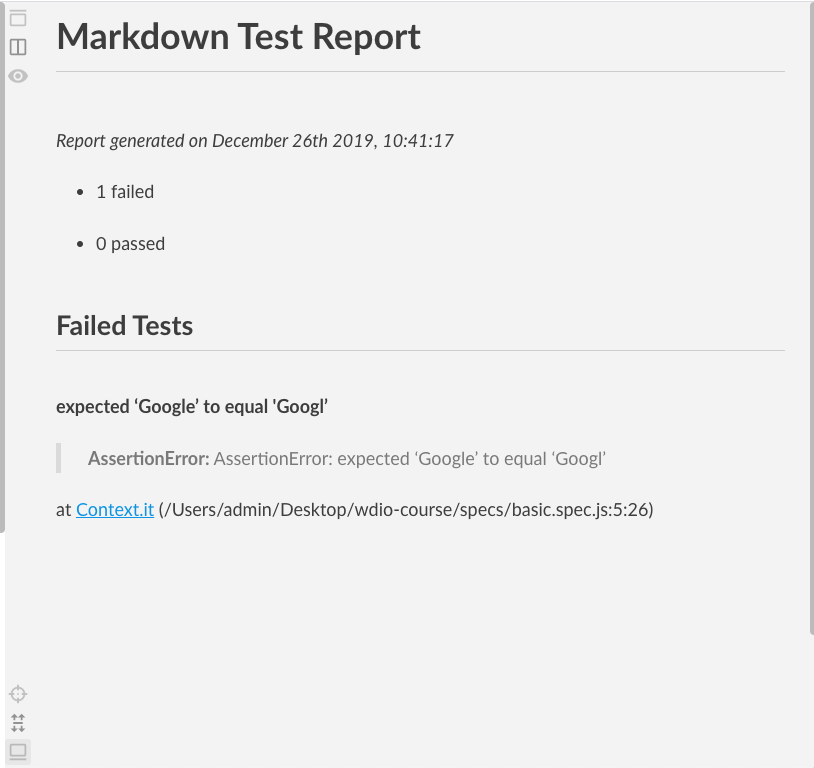
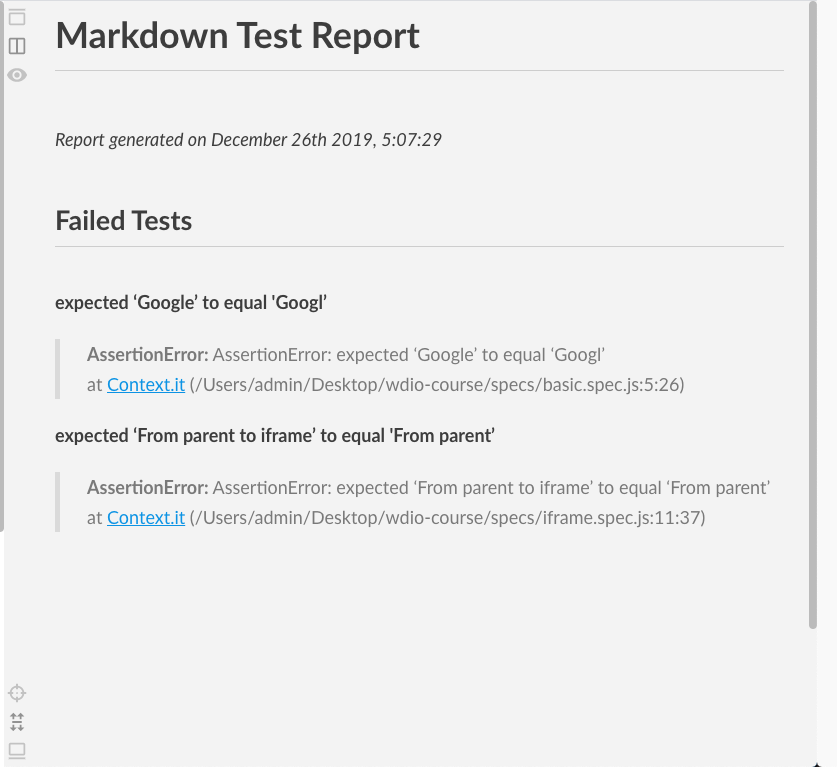
fix markdown reporter

diff --git a/src/index.js b/src/index.js
@@ -16,9 +16,9 @@ class MarkdownReporter extends WDIOReporter {
             failed: 0,
             passed: 0
         };
-
-        this.output = [];
+        this.createHeaderReport();
     }
+
     onTestPass() {
         this.stateCounts.passed++;
     }
@@ -40,59 +40,56 @@ class MarkdownReporter extends WDIOReporter {
     onRunnerEnd(runner) {
         this.createReport(runner);
     }
-    /**
-     * Write the file with the config properties
-     */
-    writeFile(report) {
-        let filename = '';
+
+    writeTestReport(filename, report) {
         let folder = '';
         !this.options.outputDir ? (folder = process.cwd()) : (folder = this.options.outputDir);
-        !this.options.filename ? (filename = 'markdownReport.md') : (filename = `${this.options.filename}.md`);
         const filePath = path.join(folder, filename);
         fs.writeFileSync(filePath, report);
     }
     /**
-     * Create the file with the Markdown report
+    * Create a markdown file for each test
+    * 
+    */
+    createReport(runner) {
+
+        const testTemplate = [
+            ...this.getFailureDisplay()
+        ];
+        if (testTemplate.length > 0) {
+            let filename = `wdio-${runner.cid}.md`
+            this.writeTestReport(filename, testTemplate.join("\n"));
+        }
+
+    }
+
+    /**
+     * Create the header markdown file
      */
-    createReport() {
+    createHeaderReport() {
         let dateReport = moment().format("MMMM Do YYYY, h:mm:ss");
         let titleReport = `# Markdown Test Report  \n _Report generated on ${dateReport}_ \n`;
         let failedTest = "## Failed Tests   \n \n";
-        const markdownTemplate = [
+        const headerTemplate = [
             titleReport,
-            this.getCountDisplay(),
             failedTest,
-            ...this.getFailureDisplay()
         ];
-
-        this.writeFile(markdownTemplate.join("\n"));
+        let filename = 'header.md';
+        let folder = this.options.outputDir;
+        let filePath = path.join(folder, filename);
+        fs.writeFileSync(filePath, headerTemplate.join('\n'));
     }
-
     /**
-     * Get the display for passed/failed tests
-     * @return {String} Count display
-     */
-    getCountDisplay() {
-        let output = [];
-        const failedTestsCount = this.stateCounts.failed;
-        const passsedTestsCount = this.stateCounts.passed;
-        output.push(
-            `- ${failedTestsCount} failed \n` + `- ${passsedTestsCount} passed \n`
-        );
-        return output;
-    }
-
-    /**
-     * Get display for failed tests, e.g. stack trace
-     * @return {Array} Stack trace output
-     */
+    * Get display for failed tests, e.g. stack trace
+    * @return {Array} Stack trace output
+    */
     getFailureDisplay() {
         let output = [];
         this.getOrderedSuites().map(suite =>
             suite.tests.map(test => {
                 if (test.state === "failed") {
                     output.push(
-                        `__${test.error.message}__ \n  > **AssertionError:**  ${test.error.stack}`
+                        `__${test.error.message}__ \n  > **AssertionError:**  ${test.error.stack} \n\n`
                     );
                 }
             })

diff --git a/README.md b/README.md
@@ -40,8 +40,7 @@ In order to use the service you need to add reporter to your services array in w
 export.config = {
   reporter: : [
     [markdownReporter, {
-      outputDir: '',
-      filename: ''
+      outputDir: ' ',
     }],
   ],
 };
@@ -58,7 +57,3 @@ Define a directory where your markdown file should get stored.
 
 Type: `String`<br>
 Required
-
-### filename
-
-Define the name if the markdown report.
